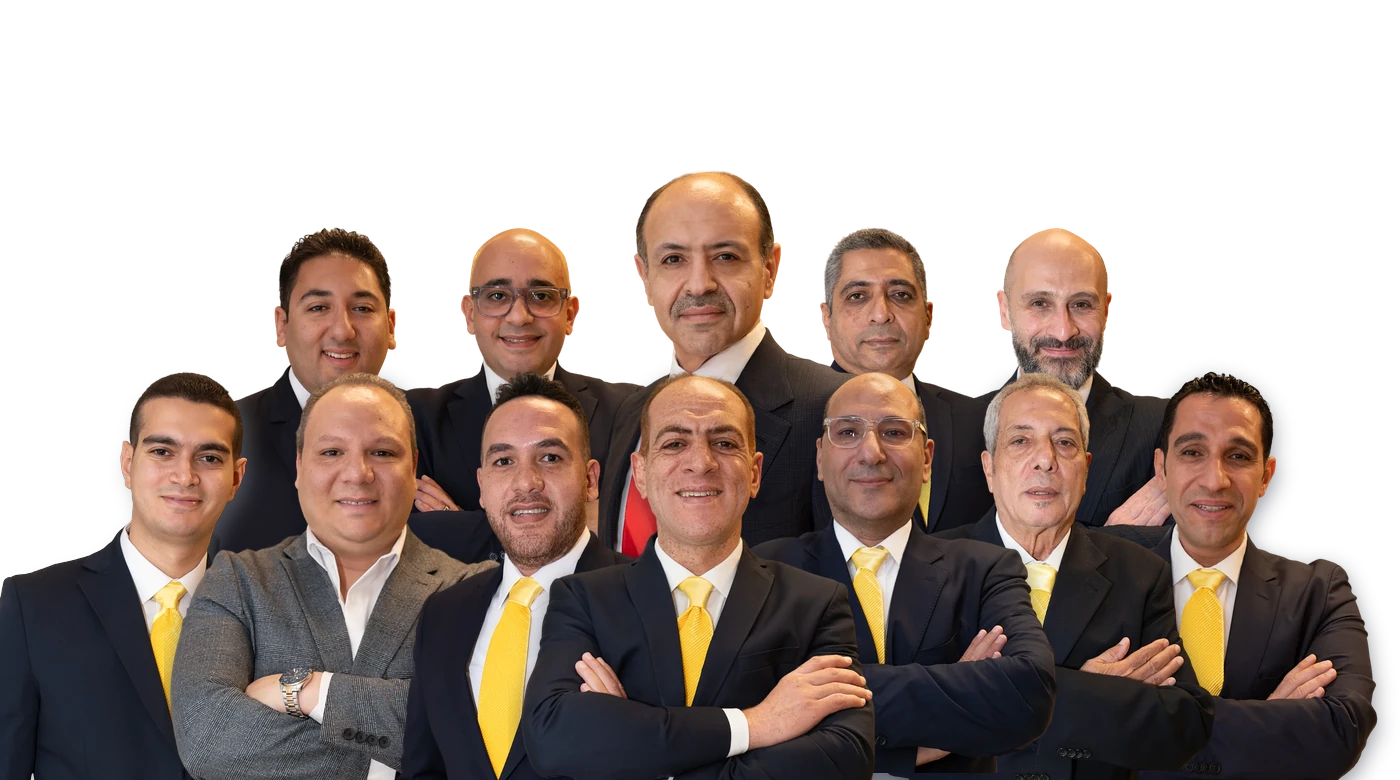
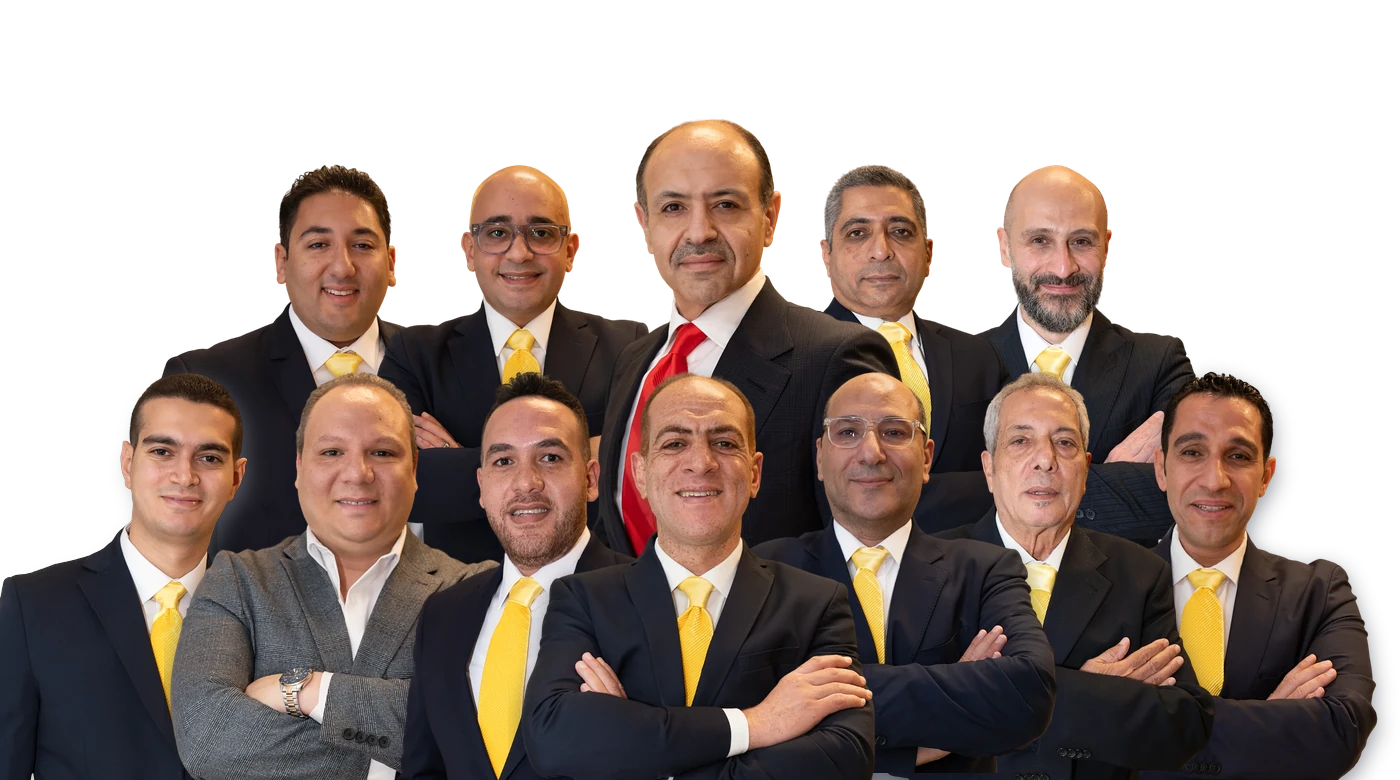
Tanta: back row of the team picture lifted so their ties show
The back row (leader included) moves up so their collars and ties clear the
front row's heads while staying inside the hero's arch on desktop and
phones. Each back-row photo continues below its bottom edge with a mirrored,
fading strip of its own suit, so no straight cut shows between the front
row's shoulders. The composer now lives in the client folder
(tools/compose-team.py) so the picture can be rebuilt when photos change.
The share card is redrawn.

Claude-Session: https://claude.ai/code/session_01LHd7Ai6tck8Mk2W4x1zYiU

Changed region(s): [[0.0921, 0.1538, 0.86, 0.7077], [0.2764, 0.6154, 0.3379, 0.7077], [0.645, 0.6154, 0.6757, 0.6769]]

diff --git a/clients/tantasportsclubelections/tools/compose-team.py b/clients/tantasportsclubelections/tools/compose-team.py
@@ -1,0 +1,66 @@
+# Usage: python3 clients/tantasportsclubelections/tools/compose-team.py clients/tantasportsclubelections/media <out-dir>
+# Builds a symmetric team picture (1400x780, transparent) from the individual cut-outs:
+# back row of 5 with the leader at the exact centre and on top, front row of 7 centred on the
+# same axis (vice-president in the middle). Bodies run off the bottom edge.
+import sys, os
+BACK_Y = int(os.environ.get('BACK_Y', 165)); LEAD_Y = int(os.environ.get('LEAD_Y', 120))
+from PIL import Image, ImageFilter
+M, OUT = sys.argv[1], sys.argv[2]
+W, H, CX = 1400, 780, 700
+back = ['mohamed-el-menshawy', 'ashoush', 'hussein-dawood', 'mostafa-el-shamkawy', 'khaled-hamza']
+# Photos cropped on one side face that side inwards, under the next person in (drawn later):
+# Mabrouk (cropped right) left of centre; Attia (cropped left) at the left end, past the edge.
+front = ['mohamed-attia', 'karim-abu-elazm', 'mohamed-mabrouk', 'mohamed-sedky', 'waleed-afify', 'fathy-selim', 'ahmed-sweilem']
+
+def card(name, scale, extend=0):
+    im = Image.open(f'{M}/{name}-card.webp').convert('RGBA')
+    if extend:
+        # Continue the body below the photo's bottom edge: the bottom rows mirrored, fading out,
+        # so a raised back row never shows its cut between the front row's shoulders.
+        strip = im.crop((0, im.height - extend, im.width, im.height)).transpose(Image.FLIP_TOP_BOTTOM)
+        fade = Image.linear_gradient('L').resize((im.width, extend))  # 0 at top -> 255 at bottom
+        a = Image.composite(Image.new('L', strip.size, 0), strip.getchannel('A'), fade)
+        strip.putalpha(a)
+        tall = Image.new('RGBA', (im.width, im.height + extend), (0, 0, 0, 0))
+        tall.paste(im, (0, 0)); tall.paste(strip, (0, im.height))
+        im = tall
+    return im.resize((round(im.width * scale), round(im.height * scale)), Image.LANCZOS)
+
+def head_top(im):
+    a = im.getchannel('A')
+    for y in range(im.height):
+        if a.crop((0, y, im.width, y + 1)).getextrema()[1] > 128: return y
+    return 0
+
+def place(canvas, im, cx, top_of_head, shadow=False):
+    x = round(cx - im.width / 2)
+    y = round(top_of_head - head_top(im))
+    if shadow:
+        sh = Image.new('RGBA', im.size, (8, 12, 30, 0))
+        sh.putalpha(im.getchannel('A').point(lambda v: int(v * 0.45)).filter(ImageFilter.GaussianBlur(10)))
+        canvas.alpha_composite(sh, (x, y + 8)) if x >= 0 and y + 8 >= 0 else canvas.paste(sh, (x, y + 8), sh)
+    if x >= 0 and y >= 0:
+        canvas.alpha_composite(im, (x, y))
+    else:
+        layer = Image.new('RGBA', canvas.size, (0, 0, 0, 0)); layer.paste(im, (x, y), im)
+        canvas.alpha_composite(layer)
+
+canvas = Image.new('RGBA', (W, H), (0, 0, 0, 0))
+# Back row: outer pairs first, the leader last (on top), slightly larger and higher.
+sb, sl, sf = 0.45, 0.51, 0.48
+back_x = {0: CX - 360, 1: CX - 180, 2: CX, 3: CX + 180, 4: CX + 360}
+for i in (0, 4, 1, 3):
+    place(canvas, card(back[i], sb, 260), back_x[i], BACK_Y)
+place(canvas, card(back[2], sl, 260), CX, LEAD_Y)
+# Front row: from the ends inwards, the centre on top; each casts a soft shadow on the row behind.
+step = 172
+front_x = {i: CX + (i - 3) * step for i in range(7)}
+for i in (0, 6, 1, 5, 2, 4, 3):
+    place(canvas, card(front[i], sf), front_x[i], 372, shadow=True)
+canvas.save(OUT + '/team.webp', quality=90, method=6)
+bg = Image.new('RGBA', (W, H), (20, 30, 80, 255)); bg.alpha_composite(canvas)
+g = bg.copy(); 
+from PIL import ImageDraw
+d = ImageDraw.Draw(g); d.line([(CX, 0), (CX, H)], fill=(255, 0, 255, 255), width=1)
+g.convert('RGB').save(OUT + '/team-navy.jpg', quality=88)
+print('ok', canvas.size)
